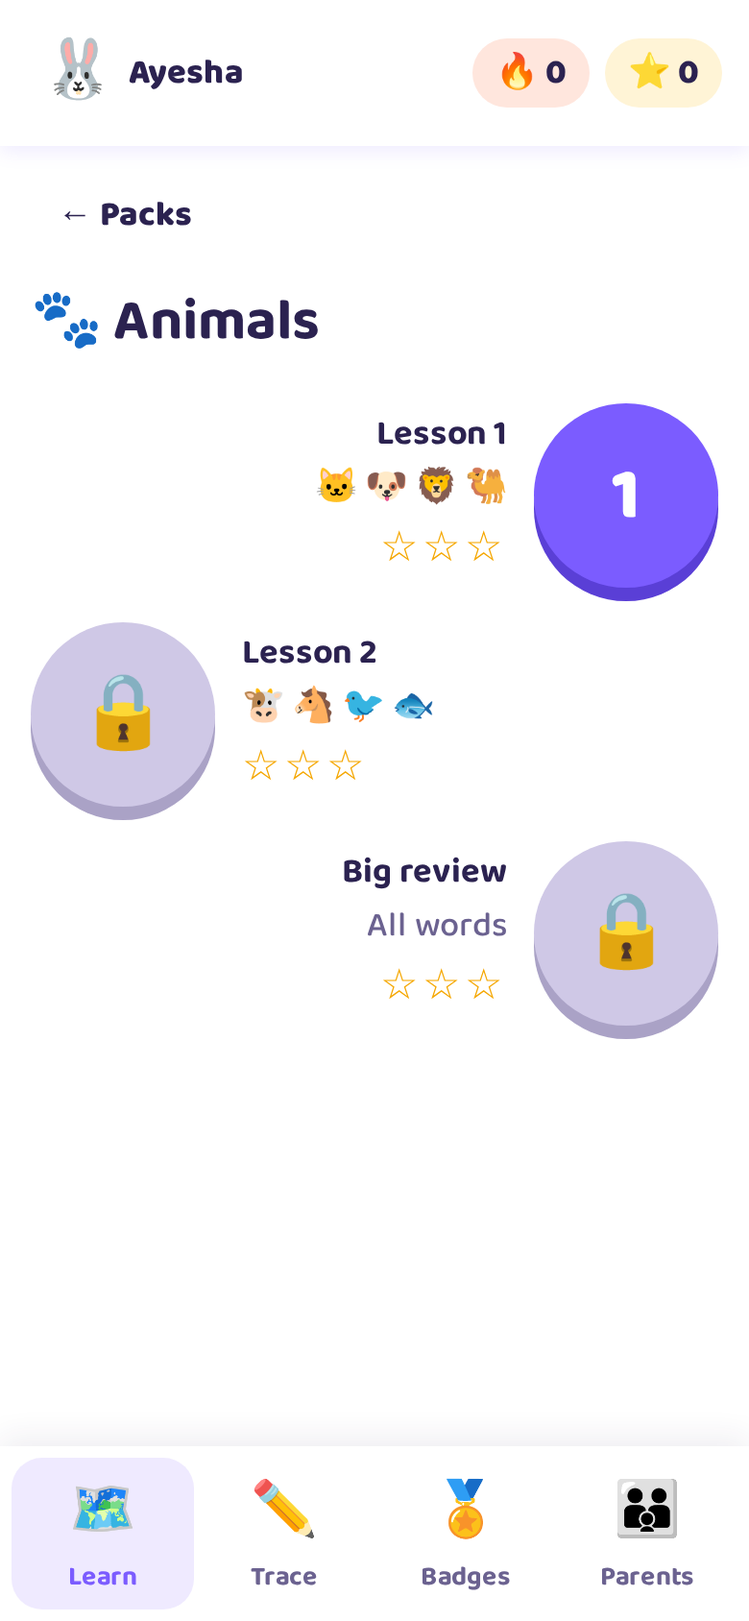
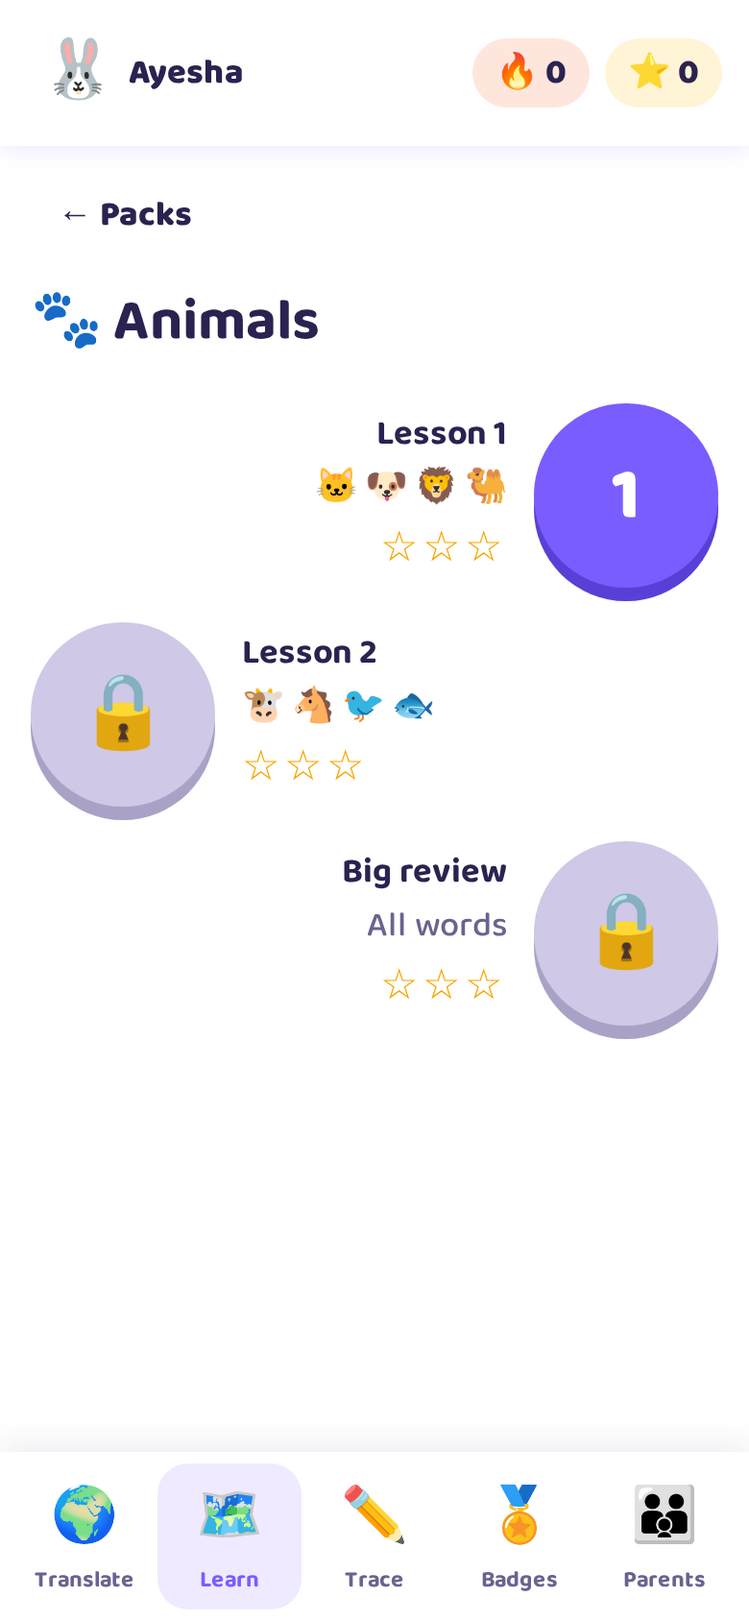
Add kid-safe translator as main screen

diff --git a/app.js b/app.js
@@ -5,7 +5,7 @@ const esc=s=>String(s).replace(/[&<>"']/g,c=>({'&':'&amp;','<':'&lt;','>':'&gt;'
 const shuffle=a=>{a=a.slice();for(let i=a.length-1;i>0;i--){const j=Math.floor(Math.random()*(i+1));[a[i],a[j]]=[a[j],a[i]]}return a};
 const AVATARS=['🦁','🐼','🐰','🦊','🐯','🐨','🐸','🦄','🐧','🐢'];
 let S=load();
-function load(){try{const s=JSON.parse(localStorage.getItem(KEY));if(s&&s.profiles)return s}catch(e){}return{profiles:[],current:null,settings:{voiceOnly:true,voice:true,sfx:false,rate:0.8,limit:0}}}
+function load(){try{const s=JSON.parse(localStorage.getItem(KEY));if(s&&s.profiles)return s}catch(e){}return{profiles:[],current:null,settings:{online:true,voiceOnly:true,voice:true,sfx:false,rate:0.8,limit:0}}}
 function save(){try{localStorage.setItem(KEY,JSON.stringify(S))}catch(e){toast('Could not save progress on this device.')}}
 const kid=()=>S.profiles.find(p=>p.id===S.current);
 function toast(msg,ms){const t=$('#toast');t.textContent=msg;t.hidden=false;clearTimeout(toast.t);toast.t=setTimeout(()=>t.hidden=true,ms||3500)}
@@ -22,12 +22,14 @@ function say(text,lang,key){
   if(!S.settings.voice)return;
   if(key&&window.RECORDED.includes(lang+'/'+key)){const a=new Audio('audio/'+lang+'/'+key+'.mp3');a.play().catch(()=>{});return}
   if(!('speechSynthesis' in window)){fallback(lang);return}
-  speechSynthesis.cancel();const v=findVoice(LANGS[lang].voice);
+  speechSynthesis.cancel();const v=findVoice(vcode(lang));
   if(!v){fallback(lang);return}
   const u=new SpeechSynthesisUtterance(text);u.lang=v.lang;u.voice=v;u.rate=S.settings.rate||0.8;speechSynthesis.speak(u);
 }
+const vcode=l=>((LANGS[l]&&LANGS[l].voice)||l).toLowerCase().split('-')[0];
+const lname=l=>(LANGS[l]&&LANGS[l].name)||((window.TLANGS||[]).find(x=>x[0]===l)||[0,l])[1];
 function fallback(lang){if(warned[lang]&&Date.now()-warned[lang]<20000)return;warned[lang]=Date.now();
-  toast('🦉 This device has no '+LANGS[lang].name+' voice yet. Read the word together with a grown-up! 💛',5000)}
+  toast('🦉 This device has no '+lname(lang)+' voice yet. Read the word together with a grown-up! 💛',5000)}
 let actx;function sfx(ok){if(!S.settings.sfx||S.settings.voiceOnly)return;try{actx=actx||new (window.AudioContext||window.webkitAudioContext)();const o=actx.createOscillator(),g=actx.createGain();o.frequency.value=ok?880:220;g.gain.value=.08;o.connect(g);g.connect(actx.destination);o.start();o.stop(actx.currentTime+.15)}catch(e){}}
 function confetti(){if(matchMedia('(prefers-reduced-motion: reduce)').matches)return;const c=document.createElement('div');c.className='confetti';c.setAttribute('aria-hidden','true');c.innerHTML=Array.from({length:24},()=>`<i style="left:${Math.random()*100}%;animation-delay:${Math.random()*.6}s">${['⭐','🌟','✨','💜','🎈'][Math.floor(Math.random()*5)]}</i>`).join('');document.body.appendChild(c);setTimeout(()=>c.remove(),2400)}
 
@@ -36,7 +38,7 @@ const word=(it,l)=>it[l]||it.en;
 const wordHTML=(it,l,cls)=>`<div class="${cls||'word'}" lang="${l}" dir="${LANGS[l].dir}">${esc(word(it,l))}</div>`;
 function lessonsOf(pack){const L=[];for(let i=0;i<pack.items.length;i+=4)L.push(pack.items.slice(i,i+4));L.push(null);return L} // null = review
 function starsFor(p,pk,i){return ((p.stars||{})[pk]||{})[i]||0}
-function totalStars(p){let t=0;for(const k in p.stars||{})for(const i in p.stars[k])t+=p.stars[k][i];return t}
+function totalStars(p){let t=Object.keys(p.words||{}).length;for(const k in p.stars||{})for(const i in p.stars[k])t+=p.stars[k][i];return t}
 function lessonsDone(p){let t=0;for(const k in p.stars||{})t+=Object.keys(p.stars[k]).length;return t}
 const BADGES=[
  {id:'first',ic:'🌱',t:'First lesson',test:p=>lessonsDone(p)>=1},
@@ -67,7 +69,7 @@ function go(screen,arg){cur=screen;if('speechSynthesis' in window)speechSynthesi
  $('#topbar').hidden=!chrome;$('#tabs').hidden=!chrome;if(chrome){bar();tabs(screen)}
  (SCREENS[screen]||SCREENS.home)(arg);app.focus({preventScroll:true});window.scrollTo(0,0)}
 function bar(){const p=kid();$('#topbar').innerHTML=`<button class="who" id="switchKid" aria-label="Switch child"><span class="av">${p.avatar}</span><span>${esc(p.name)}</span></button><span class="pill fire" title="Day streak">🔥 ${liveStreak(p)}</span><span class="pill" title="Stars">⭐ ${totalStars(p)}</span>`;$('#switchKid').onclick=()=>go('profiles')}
-function tabs(active){const T=[['home','🗺','Learn'],['trace','✏','Trace'],['badges','🏅','Badges'],['gate','👪','Parents']];
+function tabs(active){const T=[['translate','🌍','Translate'],['home','🗺','Learn'],['trace','✏','Trace'],['badges','🏅','Badges'],['gate','👪','Parents']];
  $('#tabs').innerHTML=T.map(([id,ic,l])=>`<button data-go="${id}" ${active===id||(id==='home'&&active==='pack')?'aria-current="page"':''}><span aria-hidden="true">${ic}</span>${l}</button>`).join('');
  $('#tabs').querySelectorAll('button').forEach(b=>b.onclick=()=>go(b.dataset.go))}
 
@@ -76,7 +78,7 @@ profiles(){app.innerHTML=`<div class="center">${MASCOT('bounce')}<h1>Multilingo<
  <div class="grid">${S.profiles.map((p,i)=>`<button class="tile c${i%7}" data-id="${p.id}"><span class="ic">${p.avatar}</span>${esc(p.name)}<small>${LANGS[p.lang].flag} ${LANGS[p.lang].name}</small></button>`).join('')}
  <button class="tile" id="add"><span class="ic">➕</span>Add child</button></div>
  <button class="big soft" id="par">👪 Parents</button>`;
- app.querySelectorAll('[data-id]').forEach(b=>b.onclick=()=>{S.current=b.dataset.id;save();go('home')});
+ app.querySelectorAll('[data-id]').forEach(b=>b.onclick=()=>{S.current=b.dataset.id;save();go('translate')});
  $('#add').onclick=()=>go('gate','newkid');$('#par').onclick=()=>go('gate','parent');
  const s=app.querySelector('svg');s.style.width='130px'},
 newkid(){let av=AVATARS[0],lang='en';app.innerHTML=`<button class="back" id="bk">← Back</button><h1>New learner</h1>
@@ -88,7 +90,7 @@ newkid(){let av=AVATARS[0],lang='en';app.innerHTML=`<button class="back" id="bk"
  app.querySelectorAll('[data-a]').forEach(b=>b.onclick=()=>{av=b.dataset.a;app.querySelectorAll('[data-a]').forEach(x=>x.setAttribute('aria-pressed',x===b))});
  app.querySelectorAll('[data-l]').forEach(b=>b.onclick=()=>{lang=b.dataset.l;app.querySelectorAll('[data-l]').forEach(x=>x.setAttribute('aria-pressed',x===b))});
  $('#ok').onclick=()=>{const n=$('#nm').value.trim();if(!n){toast('Please type a name 😊');$('#nm').focus();return}
-  const p={id:'k'+Date.now(),name:n,avatar:av,lang,stars:{},badges:[],traced:{},streak:0,best:0};S.profiles.push(p);S.current=p.id;save();go('home')}},
+  const p={id:'k'+Date.now(),name:n,avatar:av,lang,stars:{},badges:[],traced:{},streak:0,best:0};S.profiles.push(p);S.current=p.id;save();go('translate')}},
 home(){const p=kid(),ui=UI[p.lang]||UI.en;app.innerHTML=`<div class="hero">${MASCOT('bounce')}<p><span lang="${p.lang}" dir="${LANGS[p.lang].dir}">${esc(ui.hello)}</span>, ${esc(p.name)}!<br>Let's learn ${LANGS[p.lang].name} today!</p></div>
  <div class="grid">${PACKS.map((pk,i)=>{const L=lessonsOf(pk),d=L.filter((_,j)=>starsFor(p,pk.id,j)>0).length;return `<button class="tile c${i%7}" data-p="${pk.id}"><span class="ic" aria-hidden="true">${pk.icon}</span>${pk.title}<small>${d}/${L.length} lessons</small></button>`}).join('')}</div>`;
  app.querySelectorAll('[data-p]').forEach(b=>b.onclick=()=>go('pack',b.dataset.p))},
@@ -103,7 +105,7 @@ badges(){const p=kid();app.innerHTML=`<h1>🏅 ${esc(p.name)}'s badges</h1><div 
 gate(next){const a=3+Math.floor(Math.random()*7),b=3+Math.floor(Math.random()*7);let ans='';
  app.innerHTML=`<button class="back" id="bk">← Back</button><h1 class="center">👪 Grown-ups only</h1><p class="center">What is <b>${a} × ${b}</b>?</p><div class="answer" id="ans" aria-live="polite">&nbsp;</div>
  <div class="pad">${[1,2,3,4,5,6,7,8,9,'⌫',0,'✓'].map(k=>`<button data-k="${k}" aria-label="${k==='⌫'?'Delete':k==='✓'?'Check':k}">${k}</button>`).join('')}</div>`;
- $('#bk').onclick=()=>go(kid()?'home':'profiles');
+ $('#bk').onclick=()=>go(kid()?'translate':'profiles');$
  app.querySelectorAll('[data-k]').forEach(btn=>btn.onclick=()=>{const k=btn.dataset.k;if(k==='⌫')ans=ans.slice(0,-1);else if(k==='✓'){if(+ans===a*b){go(next||'parent');return}else{toast('Not quite. Ask a grown-up!');ans=''}}else if(ans.length<3)ans+=k;$('#ans').textContent=ans||'\u00a0'})},
 parent(){const st=S.settings;
  app.innerHTML=`<button class="back" id="bk">← Back</button><h1>👪 Parent area</h1>
@@ -115,19 +117,20 @@ parent(){const st=S.settings;
  <label class="row">Gentle tap sounds<input type="checkbox" class="switch" id="fx" ${st.sfx?'checked':''} ${st.voiceOnly?'disabled':''}></label>
  <label class="row">Speaking speed<select id="rt">${[[.6,'Slow'],[.8,'Normal'],[1,'Fast']].map(([v,l])=>`<option value="${v}" ${st.rate==v?'selected':''}>${l}</option>`).join('')}</select></label>
  <button class="big soft" id="test">🔊 Test voices</button><p class="muted" id="vinfo"></p></div>
+ <div class="card"><h2>Translator</h2><label class="row">Online translation (off = built-in kid dictionary only)<input type="checkbox" class="switch" id="onl" ${st.online!==false?'checked':''}></label><p class="muted">Rude words are always blocked in both directions. Typed text is sent to MyMemory (or Lingva as backup) only when online translation is on.</p></div>
  <div class="card"><h2>Screen time</h2><label class="row">Daily limit per child<select id="lim">${[0,10,15,20,30,45,60].map(v=>`<option value="${v}" ${st.limit==v?'selected':''}>${v?v+' minutes':'No limit'}</option>`).join('')}</select></label></div>
  <div class="card"><h2>Children</h2>${S.profiles.map(p=>`<div class="row"><span>${p.avatar} ${esc(p.name)}</span><span><select data-lang="${p.id}" aria-label="Language for ${esc(p.name)}">${Object.keys(LANGS).map(l=>`<option value="${l}" ${p.lang===l?'selected':''}>${LANGS[l].name}</option>`).join('')}</select> <button class="back" data-del="${p.id}" aria-label="Remove ${esc(p.name)}">🗑</button></span></div>`).join('')}</div>
  <div class="card"><h2>About</h2><p>No ads. No tracking. No accounts. Progress stays on this device only. Works offline after the first visit.</p><p class="muted">Duas follow common Sunnah wording; please review them with your child. Recorded native audio can be added in <code>audio/</code>.</p></div>`;
- $('#bk').onclick=()=>go(kid()?'home':'profiles');$('#addk').onclick=()=>go('newkid');
+ $('#bk').onclick=()=>go(kid()?'translate':'profiles');$('#addk').onclick=()=>go('newkid');
  const set=(k,v)=>{st[k]=v;save()};
  $('#vo').onchange=e=>{set('voiceOnly',e.target.checked);$('#fx').disabled=e.target.checked};$('#vc').onchange=e=>set('voice',e.target.checked);$('#fx').onchange=e=>set('sfx',e.target.checked);
- $('#rt').onchange=e=>set('rate',+e.target.value);$('#lim').onchange=e=>set('limit',+e.target.value);
+ $('#onl').onchange=e=>set('online',e.target.checked);$('#rt').onchange=e=>set('rate',+e.target.value);$('#lim').onchange=e=>set('limit',+e.target.value);
  $('#test').onclick=()=>{loadVoices();$('#vinfo').textContent=Object.keys(LANGS).map(l=>LANGS[l].name+': '+(findVoice(LANGS[l].voice)?'✅':'❌ not installed')).join(' · ');say('Hello','en')};
  app.querySelectorAll('[data-lang]').forEach(s=>s.onchange=()=>{S.profiles.find(p=>p.id===s.dataset.lang).lang=s.value;save()});
  app.querySelectorAll('[data-del]').forEach(b=>b.onclick=()=>{if(confirm('Remove this child and their progress?')){S.profiles=S.profiles.filter(p=>p.id!==b.dataset.del);if(S.current===b.dataset.del)S.current=null;save();go('parent')}})},
 break(){app.innerHTML=`<div class="center">${MASCOT('bounce')}<h1>Time for a break! 🌳</h1><p>Great learning today. Let's play outside, read a book, or help at home. See you tomorrow!</p><button class="big soft" id="pg">👪 Grown-up: extend time</button><button class="big soft" id="sw">Switch child</button></div>`;
  app.querySelector('svg').style.width='150px';$('#pg').onclick=()=>go('gate','unlock');$('#sw').onclick=()=>go('profiles')},
-unlock(){const p=kid();if(p){p.unlock=today();save()}toast('Extra time unlocked for today.');go('home')}
+unlock(){const p=kid();if(p){p.unlock=today();save()}toast('Extra time unlocked for today.');go('translate')}
 };
 
 /* ---------- Lesson ---------- */
@@ -190,5 +193,5 @@ function traceScreen(letter){const p=kid();traceLang=traceLang||(LETTERS[p.lang]
 
 /* ---------- Boot ---------- */
 if('serviceWorker' in navigator&&location.protocol!=='file:')window.addEventListener('load',()=>navigator.serviceWorker.register('sw.js').catch(()=>{}));
-window.__go=go;go(kid()?'home':'profiles');
+window.ML={S,save,kid,esc,say,toast,go,bumpStreak,checkBadges,confetti,SCREENS,bar:()=>bar()};
 })();

diff --git a/translator.js b/translator.js
@@ -1,0 +1,99 @@
+(function(){'use strict';
+const {S,save,kid,esc,say,toast,go,bumpStreak,checkBadges,confetti,SCREENS}=window.ML;const $=s=>document.querySelector(s);
+const MAX=200,TL=Object.fromEntries(TLANGS.map(([c,n,f,d])=>[c,{name:n,flag:f,dir:d||'ltr'}]));
+const norm=s=>String(s).toLowerCase().normalize('NFKC').replace(/[\u064B-\u0652\u0670\u0640]/g,'').replace(/[إأآ]/g,'ا').replace(/[.,!?؟،。！？¿¡"'“”‘’:;()]/g,' ').replace(/\s+/g,' ').trim();
+/* Offline dictionary from the word packs */
+const DICT={};PACKS.forEach(pk=>pk.items.forEach(it=>['en','ur','ar','es','fr','tr'].forEach(l=>{if(it[l]){(DICT[l]=DICT[l]||{})[norm(it[l])]=it;if(l==='en')DICT.en[norm(it.en).replace(/^(the|a|an) /,'')]=it}})));
+const lookup=(l,t)=>{const d=DICT[l];if(!d)return null;const k=norm(t);return d[k]||(l==='en'?d[k.replace(/^(the|a|an) /,'').replace(/s$/,'')]:null)||null};
+/* Kid-safety filter */
+const LAT=new Set(BLOCKED.latin.filter(w=>!w.includes(' '))),PHR=BLOCKED.latin.filter(w=>w.includes(' ')),SCR=BLOCKED.script.map(norm);
+function isBad(text){const t=norm(text),tokens=t.split(/[^\p{L}\p{N}]+/u).filter(Boolean),pad=' '+tokens.join(' ')+' ';
+ if(tokens.some(w=>LAT.has(w)))return true;if(PHR.some(p=>pad.includes(' '+p+' ')))return true;if(SCR.some(w=>(' '+t+' ').includes(' '+w)||t.includes(w)&&w.length>3))return true;return false}
+const BLOCK_MSG='🦉 Oops! That word isn\'t kind, so Lingo won\'t translate it. Let\'s try a happy word like "friend" 💜';
+/* Online translation */
+const lingvaCode=c=>c==='zh-CN'?'zh':c==='fil'?'tl':c;
+async function withTimeout(url,ms){const ctl=new AbortController(),t=setTimeout(()=>ctl.abort(),ms);try{const r=await fetch(url,{signal:ctl.signal,referrerPolicy:'no-referrer',credentials:'omit'});if(!r.ok)throw new Error('http '+r.status);return await r.json()}finally{clearTimeout(t)}}
+async function online(q,from,to){
+ try{const d=await withTimeout('https://api.mymemory.translated.net/get?q='+encodeURIComponent(q)+'&langpair='+encodeURIComponent(from+'|'+to),8000);
+  const t=d&&d.responseData&&d.responseData.translatedText;if(t&&Number(d.responseStatus)===200&&!/MYMEMORY WARNING|INVALID LANGUAGE|QUERY LENGTH/i.test(t))return{text:decode(t),src:'MyMemory'}}catch(e){}
+ try{const d=await withTimeout('https://lingva.ml/api/v1/'+lingvaCode(from)+'/'+lingvaCode(to)+'/'+encodeURIComponent(q),8000);if(d&&d.translation)return{text:d.translation,src:'Lingva'}}catch(e){}
+ return null}
+function decode(t){const a=document.createElement('textarea');a.innerHTML=t;return a.value}
+/* Voice input */
+const SR=window.SpeechRecognition||window.webkitSpeechRecognition;const REGION={en:'en-US',ur:'ur-PK',ar:'ar-SA',hi:'hi-IN',bn:'bn-BD',pa:'pa-IN',fa:'fa-IR',es:'es-ES',fr:'fr-FR',de:'de-DE',tr:'tr-TR',zh:'zh-CN'};
+let rec=null;
+const opts=sel=>TLANGS.map(([c,n,f])=>`<option value="${c}" ${c===sel?'selected':''}>${f} ${n}</option>`).join('');
+const dirOf=c=>TL[c]?TL[c].dir:'ltr';
+let last=null;
+SCREENS.translate=function(){const p=kid();p.saved=p.saved||[];p.history=p.history||[];p.words=p.words||{};
+ if(!p.tfrom){p.tfrom='en';p.tto=p.lang!=='en'&&TL[p.lang]?p.lang:'ur'}
+ const app=$('#app');last=null;
+ app.innerHTML=`<div class="tr-hero"><svg class="mascot" viewBox="0 0 200 200" aria-hidden="true"><ellipse cx="100" cy="118" rx="70" ry="74" fill="#ffb84d"/><ellipse cx="100" cy="132" rx="44" ry="50" fill="#ffe2a8"/><circle cx="72" cy="88" r="27" fill="#fff"/><circle cx="128" cy="88" r="27" fill="#fff"/><circle cx="76" cy="91" r="12" fill="#2b2250"/><circle cx="124" cy="91" r="12" fill="#2b2250"/><path d="M90 112h20l-10 14z" fill="#ff7a59"/><path d="M40 60l18-30 16 36zM160 60l-18-30-16 36z" fill="#ffb84d"/></svg><h1>Kids Translator</h1></div>
+ <div class="card tr">
+  <div class="langrow"><label><span>From</span><select id="from" class="lsel">${opts(p.tfrom)}</select></label><button id="swap" class="swapbtn" aria-label="Swap languages">⇄</button><label><span>To</span><select id="to" class="lsel">${opts(p.tto)}</select></label></div>
+  <label for="src" class="sr">Type a word or sentence</label><textarea id="src" class="tbox" maxlength="${MAX}" placeholder="Type a word… e.g. cat 🐱" autocomplete="off" spellcheck="false"></textarea>
+  <div class="trow"><button class="rbtn" id="mic" aria-label="Speak a word">🎤<small>Speak</small></button><button class="rbtn" id="lsrc" aria-label="Listen to my words">🔊<small>Listen</small></button><button class="rbtn" id="clr" aria-label="Clear">🧽<small>Clear</small></button><span class="count" id="cnt">0/${MAX}</span></div>
+  <button class="big" id="go">🌍 Translate</button>
+  <div id="out" class="tout" aria-live="polite"><p class="muted center">Your translation will pop up here ✨</p></div>
+ </div>
+ <div class="card"><h2>⭐ My practice words <small class="muted" id="nsaved"></small></h2><div id="saved" class="tlist"></div></div>
+ <div class="card"><h2>🕘 Recent <button class="back" id="clh" style="float:right;font-size:15px">Clear</button></h2><div id="hist" class="tlist"></div></div>`;
+ const src=$('#src'),from=$('#from'),to=$('#to');
+ const setDir=()=>{src.dir=dirOf(from.value);src.lang=from.value};setDir();
+ const persist=()=>{p.tfrom=from.value;p.tto=to.value;save()};
+ from.onchange=()=>{setDir();persist()};to.onchange=persist;
+ $('#swap').onclick=()=>{const f=from.value;from.value=to.value;to.value=f;if(last){src.value=last.t}setDir();persist();upd();if(last)run()};
+ const upd=()=>{$('#cnt').textContent=src.value.length+'/'+MAX};src.oninput=upd;
+ src.onkeydown=e=>{if(e.key==='Enter'&&!e.shiftKey){e.preventDefault();run()}};
+ $('#clr').onclick=()=>{src.value='';upd();last=null;$('#out').innerHTML='<p class="muted center">Your translation will pop up here ✨</p>';src.focus()};
+ $('#lsrc').onclick=()=>{const t=src.value.trim();if(!t)return toast('Type or say a word first 😊');if(isBad(t))return toast(BLOCK_MSG,5000);say(t,from.value)};
+ $('#mic').onclick=()=>{if(!SR)return toast('🎤 Voice typing isn\'t available in this browser. Try Chrome on Android, or type instead!',5000);
+  if(!navigator.onLine)return toast('🎤 Voice typing needs internet. You can still type!');
+  if(rec){rec.abort();rec=null;$('#mic').classList.remove('on');return}
+  rec=new SR();rec.lang=REGION[from.value]||REGION[from.value.split('-')[0]]||from.value;rec.interimResults=false;rec.maxAlternatives=1;$('#mic').classList.add('on');toast('🎤 Listening… say a word!');
+  rec.onresult=e=>{src.value=e.results[0][0].transcript.slice(0,MAX);upd();run()};
+  rec.onerror=e=>toast(e.error==='not-allowed'?'🎤 Please let a grown-up allow the microphone.':'🎤 I didn\'t catch that. Try again!');
+  rec.onend=()=>{rec=null;const m=$('#mic');if(m)m.classList.remove('on')};try{rec.start()}catch(e){rec=null}};
+ $('#go').onclick=run;
+ $('#clh').onclick=()=>{p.history=[];save();lists()};
+ async function run(){const q=src.value.trim().slice(0,MAX),f=from.value,t=to.value;
+  if(!q){toast('Type or say a word first 😊');src.focus();return}
+  if(f===t){toast('Pick two different languages 🌈');return}
+  if(isBad(q)){show({blocked:true});return}
+  const btn=$('#go');btn.disabled=true;btn.textContent='⏳ Translating…';
+  let res=null,item=lookup(f,q);
+  if(item&&item[t])res={text:item[t],src:'dict'};
+  else if(S.settings.online===false)res={err:'📗 Online translation is turned off by a grown-up. Try a simple word like "cat", "red" or "mother"!'};
+  else if(!navigator.onLine)res={err:'📶 No internet right now. Lingo can still translate simple words like "apple", "five" or "blue" from the kid dictionary!'};
+  else{res=await online(q,f,t);if(!res)res={err:'😕 The translator is resting right now. Please try again in a moment, or try a simple word from the kid dictionary.'}}
+  btn.disabled=false;btn.textContent='🌍 Translate';
+  if(res.err){show({err:res.err});return}
+  if(isBad(res.text)){show({blocked:true});return}
+  item=item||lookup(t,res.text);
+  last={o:q,t:res.text,from:f,to:t,e:item?item.e:'',src:res.src,when:Date.now()};
+  p.history=[last,...p.history.filter(h=>!(h.o===q&&h.from===f&&h.to===t))].slice(0,12);
+  const key=f+'|'+t+'|'+norm(q);let star=false;if(!p.words[key]){p.words[key]=1;star=true;bumpStreak(p)}const nb=checkBadges(p);save();window.ML.bar();
+  show(last,star);if(star)toast('⭐ +1 star — new word!'+(nb.length?' New badge: '+nb[0].ic+' '+nb[0].t:''));say(res.text,t);lists()}
+ function show(r,star){const o=$('#out');
+  if(r.blocked){o.innerHTML=`<p class="tmsg">${esc(BLOCK_MSG)}</p>`;return}
+  if(r.err){o.innerHTML=`<p class="tmsg">${esc(r.err)}</p>`;return}
+  o.innerHTML=`${r.e?`<div class="tpic" aria-hidden="true">${r.e}</div>`:''}<div class="tword" lang="${r.to}" dir="${dirOf(r.to)}">${esc(r.t)}</div>
+  <p class="muted center tsrc">${TL[r.from].flag} ${esc(r.o)} → ${TL[r.to].flag} · ${r.src==='dict'?'📗 Kid dictionary (works offline)':'🌐 Online ('+esc(r.src)+')'}</p>
+  <div class="trow center"><button class="rbtn big2" id="lout" aria-label="Listen to translation">🔊<small>Listen</small></button><button class="rbtn" id="cpy" aria-label="Copy translation">📋<small>Copy</small></button><button class="rbtn star" id="learn" aria-label="Learn this word">⭐<small>Learn this word</small></button></div>`;
+  $('#lout').onclick=()=>say(r.t,r.to);
+  $('#cpy').onclick=async()=>{try{await navigator.clipboard.writeText(r.t);toast('Copied! 📋')}catch(e){toast('Copy is not available here.')}};
+  $('#learn').onclick=()=>{if(p.saved.some(s=>s.o===r.o&&s.t===r.t&&s.from===r.from&&s.to===r.to))return toast('Already in your practice words ⭐');
+   p.saved.unshift({o:r.o,t:r.t,from:r.from,to:r.to,e:r.e,when:Date.now()});save();lists();confetti();toast('Added to My practice words! ⭐')}}
+ function card(h,i,isSaved){return `<div class="titem">${h.e?`<span class="ti-pic" aria-hidden="true">${h.e}</span>`:''}<div class="ti-txt"><b dir="${dirOf(h.from)}" lang="${h.from}">${esc(h.o)}</b><span dir="${dirOf(h.to)}" lang="${h.to}">${esc(h.t)}</span><small class="muted">${TL[h.from].flag} ${TL[h.from].name} → ${TL[h.to].flag} ${TL[h.to].name}</small></div>
+  <div class="ti-btns"><button class="ib" data-say="${i}" data-s="${isSaved?1:0}" aria-label="Listen">🔊</button><button class="ib" data-use="${i}" data-s="${isSaved?1:0}" aria-label="Use again">↩</button>${isSaved?`<button class="ib" data-del="${i}" aria-label="Remove">🗑</button>`:''}</div></div>`}
+ function lists(){$('#nsaved').textContent=p.saved.length?'('+p.saved.length+')':'';
+  $('#saved').innerHTML=p.saved.length?p.saved.map((h,i)=>card(h,i,true)).join(''):'<p class="muted">Tap ⭐ Learn this word to save words here.</p>';
+  $('#hist').innerHTML=p.history.length?p.history.map((h,i)=>card(h,i,false)).join(''):'<p class="muted">Your translations will show here.</p>';
+  const L=b=>b.dataset.s==='1'?p.saved:p.history;
+  app.querySelectorAll('[data-say]').forEach(b=>b.onclick=()=>{const h=L(b)[b.dataset.say];say(h.t,h.to)});
+  app.querySelectorAll('[data-use]').forEach(b=>b.onclick=()=>{const h=L(b)[b.dataset.use];from.value=h.from;to.value=h.to;src.value=h.o;setDir();upd();persist();window.scrollTo({top:0,behavior:'smooth'});run()});
+  app.querySelectorAll('[data-del]').forEach(b=>b.onclick=()=>{p.saved.splice(+b.dataset.del,1);save();lists()})}
+ lists()};
+window.ML.translatorTest={isBad,lookup};
+go(kid()?'translate':'profiles');
+})();

diff --git a/style.css b/style.css
@@ -53,3 +53,21 @@ table{width:100%;border-collapse:collapse;font-size:16px}th,td{padding:8px 6px;b
 .confetti{position:fixed;inset:0;pointer-events:none;z-index:8;overflow:hidden}.confetti i{position:absolute;top:-20px;font-size:28px;animation:fall 1.6s linear forwards}@keyframes fall{to{transform:translateY(110vh) rotate(360deg)}}
 @media (prefers-reduced-motion:reduce){*{animation:none!important;transition:none!important}}
 @media (min-width:560px){.grid{grid-template-columns:repeat(3,1fr)}}
+.sr{position:absolute;width:1px;height:1px;overflow:hidden;clip:rect(0 0 0 0)}
+.tr-hero{display:flex;align-items:center;gap:10px}.tr-hero .mascot{width:64px}.tr-hero h1{margin:0}
+.tr .langrow{display:grid;grid-template-columns:1fr 56px 1fr;gap:8px;align-items:end;margin-bottom:12px}.tr .langrow label span{display:block;font-weight:800;font-size:15px;color:var(--muted)}
+.lsel{width:100%;font:inherit;font-size:16px;font-weight:800;padding:12px 8px;border-radius:18px;border:3px solid #e2dbff;background:#fff;min-height:58px;color:var(--ink)}
+.swapbtn{width:56px;height:56px;border-radius:50%;background:var(--orange);color:#fff;font-size:28px;font-weight:800;box-shadow:0 5px 0 #d97d22}
+.tbox{width:100%;min-height:120px;font:inherit;font-size:26px;font-weight:700;padding:14px;border-radius:20px;border:3px solid #e2dbff;resize:vertical;color:var(--ink)}.tbox:focus{border-color:var(--purple);outline:none}
+.tbox[lang=ur]{font-family:var(--ur);line-height:2}.tbox[lang=ar],.tbox[lang=fa]{font-family:var(--ar)}
+.trow{display:flex;gap:10px;align-items:center;flex-wrap:wrap;margin-top:10px}.trow.center{justify-content:center}
+.rbtn{display:flex;flex-direction:column;align-items:center;justify-content:center;min-width:76px;min-height:72px;border-radius:20px;background:#efeaff;font-size:30px;padding:6px 10px;box-shadow:0 4px 0 #d9cfff}.rbtn small{font-size:13px;font-weight:800;color:var(--purple)}
+.rbtn.on{background:#ffe0e0;animation:bob 1s infinite}.rbtn.star{background:#fff4d6;box-shadow:0 4px 0 #f0d68a}.rbtn.big2{background:var(--orange);color:#fff;box-shadow:0 4px 0 #d97d22}.rbtn.big2 small{color:#fff}
+.count{margin-inline-start:auto;color:var(--muted);font-size:14px}
+.tout{background:#faf8ff;border-radius:20px;padding:14px;min-height:110px;margin-top:6px}.tpic{font-size:88px;text-align:center;line-height:1.2}
+.tword{font-size:34px;font-weight:800;text-align:center;overflow-wrap:anywhere}.tword[lang=ur]{font-family:var(--ur);line-height:2.1}.tword[lang=ar],.tword[lang=fa]{font-family:var(--ar)}
+.tsrc{font-size:14px;margin:4px 0}.tmsg{font-size:19px;font-weight:700;text-align:center;margin:12px}
+.tlist{display:flex;flex-direction:column;gap:10px}.titem{display:flex;align-items:center;gap:10px;background:#faf8ff;border-radius:18px;padding:10px}
+.ti-pic{font-size:40px}.ti-txt{flex:1;display:flex;flex-direction:column;min-width:0;overflow-wrap:anywhere}.ti-txt [lang=ur]{font-family:var(--ur)}.ti-txt [lang=ar]{font-family:var(--ar)}
+.ti-btns{display:flex;gap:6px}.ib{width:48px;height:48px;border-radius:14px;background:#fff;font-size:22px;box-shadow:0 3px 0 #e2dbff}
+.tabs button{font-size:12px;padding:6px 2px}

diff --git a/data.js b/data.js
@@ -87,3 +87,14 @@ window.UI = {
   ur:{hello:'السلام علیکم',learn:'سیکھیں',trace:'لکھیں',badges:'انعام',parents:'والدین'},
   ar:{hello:'السلام عليكم',learn:'تَعَلَّم',trace:'اُكْتُب',badges:'أَوْسِمَة',parents:'الوالدان'}
 };
+/* Translator languages: code (MyMemory), name, flag, dir */
+window.TLANGS=[['en','English','🇬🇧'],['ur','Urdu','🇵🇰','rtl'],['ar','Arabic','🇸🇦','rtl'],['es','Spanish','🇪🇸'],['fr','French','🇫🇷'],['de','German','🇩🇪'],['it','Italian','🇮🇹'],['pt','Portuguese','🇵🇹'],['ru','Russian','🇷🇺'],['zh-CN','Chinese','🇨🇳'],['ja','Japanese','🇯🇵'],['ko','Korean','🇰🇷'],['hi','Hindi','🇮🇳'],['bn','Bengali','🇧🇩'],['tr','Turkish','🇹🇷'],['id','Indonesian','🇮🇩'],['ms','Malay','🇲🇾'],['fa','Persian','🇮🇷','rtl'],['pa','Punjabi','🇵🇰'],['sw','Swahili','🇰🇪'],['nl','Dutch','🇳🇱'],['pl','Polish','🇵🇱'],['uk','Ukrainian','🇺🇦'],['el','Greek','🇬🇷'],['he','Hebrew','🇮🇱','rtl'],['ta','Tamil','🇮🇳'],['te','Telugu','🇮🇳'],['vi','Vietnamese','🇻🇳'],['th','Thai','🇹🇭'],['fil','Filipino','🇵🇭']];
+/* Kid-safety block list (matched on whole words for Latin script, as substrings for Arabic script). Extend as needed. */
+window.BLOCKED={
+ latin:['fuck','fucking','fucker','motherfucker','shit','bullshit','bitch','bastard','asshole','arsehole','dick','dickhead','cock','pussy','cunt','slut','whore','hoe','porn','porno','sex','sexy','nude','naked','boobs','penis','vagina','nigger','nigga','faggot','fag','retard','wanker','twat','damn','crap','piss','bollocks','kill yourself','kys',
+  'chutiya','chutia','bhenchod','behenchod','benchod','madarchod','maderchod','harami','haramzada','haramzadi','kamina','kameena','kamini','kameeni','gandu','gaandu','randi','lund','phudi','kanjar','kanjri','khotey','ullu ka patha','bakwas karo','teri maa','teri behen',
+  'sharmouta','sharmuta','ibn el kalb','kos omak','kus ummak','ayre','zebi','manyak','gahba',
+  'puta','mierda','joder','cabron','merde','putain','salope','scheisse','arschloch','orospu','siktir','amk','cazzo','vaffanculo','blyat','suka'],
+ script:['حرامی','حرامزادہ','حرام زادہ','کمینہ','کمینی','چوتیا','بہن چود','بہنچود','ماں چود','مادرچود','گانڈو','رنڈی','پھدی','کنجر','کنجری','بےغیرت',
+  'شرموطة','شرموط','عاهرة','منيوك','كس امك','كس أمك','ابن الكلب','ابن الحرام','قحبة','زبي','يلعن','خول','لعنة الله عليك']
+};

diff --git a/sw.js b/sw.js
@@ -1,4 +1,4 @@
-const V='multilingo-v2',SHELL=['./','index.html','style.css','app.js','data.js','manifest.json','icons/icon.svg','icons/icon-192.png','icons/icon-512.png'];
+const V='multilingo-v3',SHELL=['./','index.html','style.css','app.js','data.js','translator.js','manifest.json','icons/icon.svg','icons/icon-192.png','icons/icon-512.png'];
 self.addEventListener('install',e=>{e.waitUntil(caches.open(V).then(c=>c.addAll(SHELL)).then(()=>self.skipWaiting()))});
 self.addEventListener('activate',e=>{e.waitUntil(caches.keys().then(k=>Promise.all(k.filter(x=>x!==V).map(x=>caches.delete(x)))).then(()=>self.clients.claim()))});
 self.addEventListener('fetch',e=>{const r=e.request;if(r.method!=='GET')return;const u=new URL(r.url);

diff --git a/index.html b/index.html
@@ -23,5 +23,6 @@
 <noscript>Please turn on JavaScript to use Multilingo.</noscript>
 <script src="data.js"></script>
 <script src="app.js"></script>
+<script src="translator.js"></script>
 </body>
 </html>
